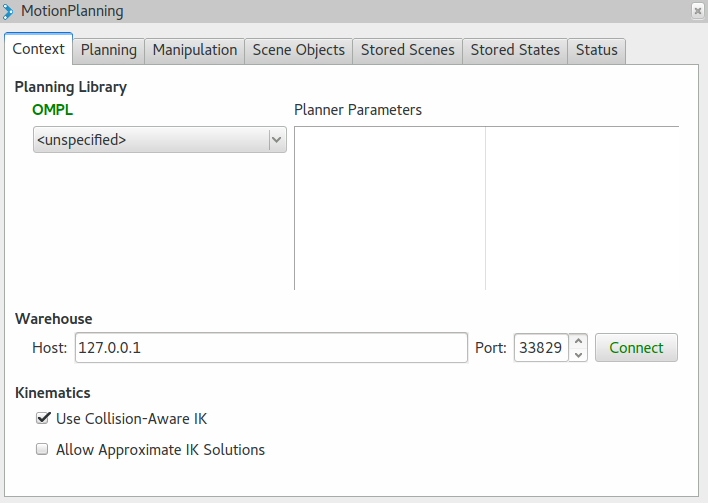
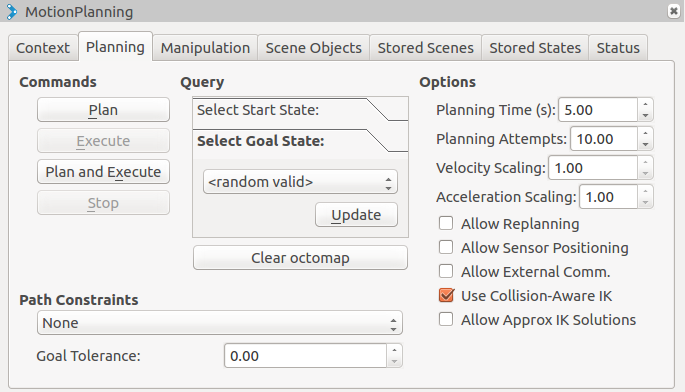
updating information (image and text) for Collision-Aware IK checkbox

diff --git a/doc/quickstart_in_rviz/quickstart_in_rviz_tutorial.rst b/doc/quickstart_in_rviz/quickstart_in_rviz_tutorial.rst
@@ -111,7 +111,7 @@ Note what happens when you try to move one of the arms into collision with the o
 .. image:: rviz_plugin_collision.png
    :width: 700px
 
-The "Use Collision-Aware IK" checkbox found within the MotionPlanning plugin allows you to toggle the behavior of the IK solver. When the checkbox is ticked, the solver will keep attempting to find a collision-free solution for the desired end-effector pose. When it is not checked, the solver will allow collisions to happen in the solution. The links in collision will always still be visualized in red, regardless of the state of the checkbox.
+The "Use Collision-Aware IK" checkbox found within the MotionPlanning plugin under the Planning tab allows you to toggle the behavior of the IK solver. When the checkbox is ticked, the solver will keep attempting to find a collision-free solution for the desired end-effector pose. When it is not checked, the solver will allow collisions to happen in the solution. The links in collision will always still be visualized in red, regardless of the state of the checkbox.
 
 .. image:: rviz_plugin_collision_aware_ik_checkbox.png
    :width: 700px
